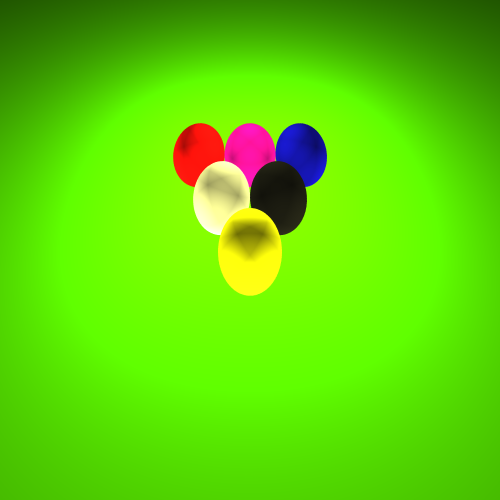
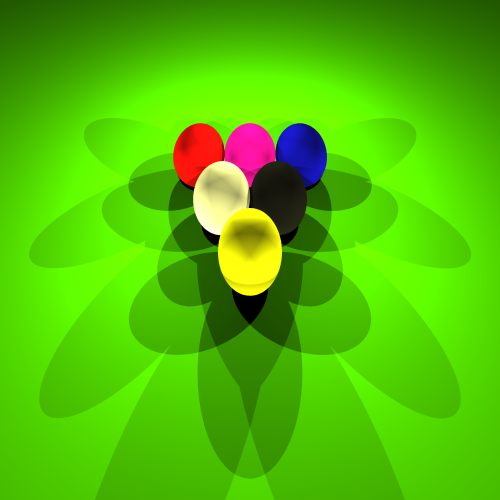
finish diffuse light

diff --git a/src/Objects/Surface.java b/src/Objects/Surface.java
@@ -40,21 +40,35 @@ public abstract class Surface {
 			Vector v = new Vector(light.getPosition().getX() - point.getX(), light.getPosition().getY() - point.getY(), light.getPosition().getZ() - point.getZ());
 			Ray ray = new Ray(point, v);
 			
-			r += Math.abs(light.getReflectedIntensityR(point, this, ray));
-			g += Math.abs(light.getReflectedIntensityG(point, this, ray));
-			b += Math.abs(light.getReflectedIntensityB(point, this, ray));
-			if(g > 1)
+			// check if there is interfering object between the surface and the light
+			boolean isInterfered = false;
+			for (Surface surface : scene.getSurfaces())
 			{
-				g = 1;
+				if ( surface != this && surface.findClosestIntesectionWithRay(ray) != null)
+				{
+					isInterfered = true;
+				}
 			}
-			if(r > 1)
+			
+			if (isInterfered == false)
 			{
-				r = 1;
+				r += Math.abs(light.getReflectedIntensityR(point, this, ray));
+				g += Math.abs(light.getReflectedIntensityG(point, this, ray));
+				b += Math.abs(light.getReflectedIntensityB(point, this, ray));
+				if(g > 1)
+				{
+					g = 1;
+				}
+				if(r > 1)
+				{
+					r = 1;
+				}
+				if(b > 1)
+				{
+					b = 1;
+				}
 			}
-			if(b > 1)
-			{
-				b = 1;
-			}
+
 		}
 		return new Color(r, g, b);
 	}
